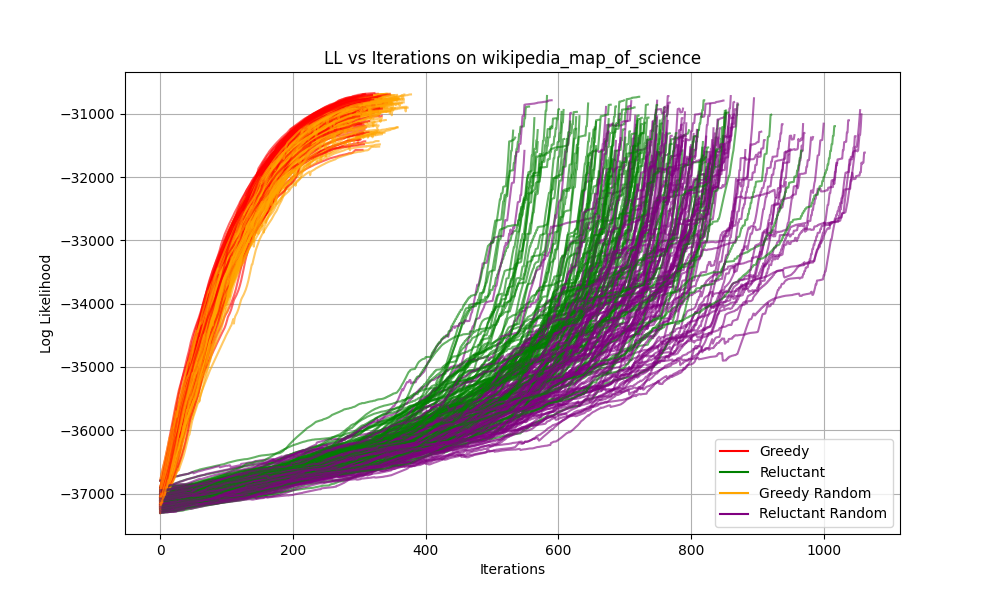
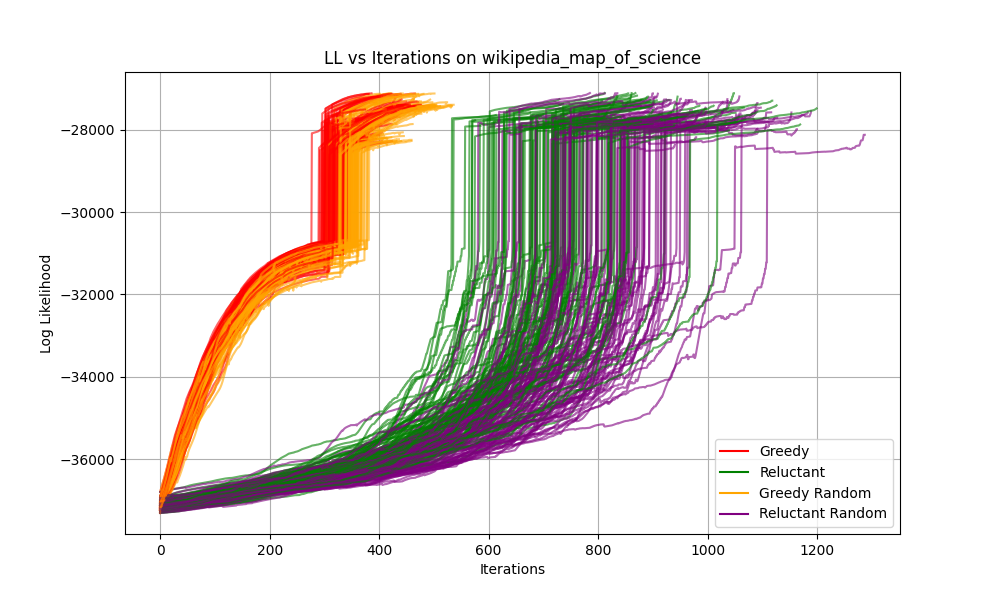
dynamic w

diff --git a/src/sbm_analysis_single_graph.py b/src/sbm_analysis_single_graph.py
@@ -17,22 +17,22 @@ def sbm_plot_cost_data(cost_data, graph_name, num_groups, num_nodes, group_mode,
         costs_fr = value["cost_data_r"]
         costs_fgr = value["cost_data_gr"]
         costs_frr = value["cost_data_rr"]
-        costs_fgsa = value["cost_data_gsa"]
-        costs_frsa = value["cost_data_rsa"]
+        # costs_fgsa = value["cost_data_gsa"]
+        # costs_frsa = value["cost_data_rsa"]
 
         iterations_fg = list(range(len(costs_fg)))
         iterations_fr = list(range(len(costs_fr)))
         iterations_fgr = list(range(len(costs_fgr)))
         iterations_frr = list(range(len(costs_frr)))
-        iterations_fgsa = list(range(len(costs_fgsa)))
-        iterations_frsa = list(range(len(costs_frsa)))
+        # iterations_fgsa = list(range(len(costs_fgsa)))
+        # iterations_frsa = list(range(len(costs_frsa)))
 
         plt.plot(iterations_fg, costs_fg, color="red", alpha=0.6)
         plt.plot(iterations_fr, costs_fr, color="green", alpha=0.6)
         plt.plot(iterations_fgr, costs_fgr, color="orange", alpha=0.6)
         plt.plot(iterations_frr, costs_frr, color="purple", alpha=0.6)
-        plt.plot(iterations_fgsa, costs_fgsa, color="brown", alpha=0.6)
-        plt.plot(iterations_frsa, costs_frsa, color="blue", alpha=0.6)
+        # plt.plot(iterations_fgsa, costs_fgsa, color="brown", alpha=0.6)
+        # plt.plot(iterations_frsa, costs_frsa, color="blue", alpha=0.6)
 
     if ground_truth_log_likelihood is not None:
         plt.axhline(y=ground_truth_log_likelihood, color='b', linestyle='--', label='Ground Truth')
@@ -44,8 +44,8 @@ def sbm_plot_cost_data(cost_data, graph_name, num_groups, num_nodes, group_mode,
     plt.plot([], [], color="green", label="Reluctant")
     plt.plot([], [], color="orange", label="Greedy Random")
     plt.plot([], [], color="purple", label="Reluctant Random")
-    plt.plot([], [], color="brown", label="Greedy SA")
-    plt.plot([], [], color="blue", label="Reluctant SA")
+    # plt.plot([], [], color="brown", label="Greedy SA")
+    # plt.plot([], [], color="blue", label="Reluctant SA")
     plt.legend(loc="lower right")
 
     plt.xlabel("Iterations")
@@ -65,16 +65,16 @@ def sbm_plot_final_costs(cost_data, graph_name, num_nodes, num_groups, group_mod
     reluctant_final_costs = []
     greedy_random_final_costs = []
     reluctant_random_final_costs = []
-    greedy_sa_final_costs = []
-    reluctant_sa_final_costs = []
+    # greedy_sa_final_costs = []
+    # reluctant_sa_final_costs = []
 
     for _, iteration_data in cost_data.items():
         greedy_final_costs.append(iteration_data["cost_data_g"][-1])
         reluctant_final_costs.append(iteration_data["cost_data_r"][-1])
         greedy_random_final_costs.append(iteration_data["cost_data_gr"][-1])
         reluctant_random_final_costs.append(iteration_data["cost_data_rr"][-1])
-        greedy_sa_final_costs.append(iteration_data["cost_data_gsa"][-1])
-        reluctant_sa_final_costs.append(iteration_data["cost_data_rsa"][-1])
+        # greedy_sa_final_costs.append(iteration_data["cost_data_gsa"][-1])
+        # reluctant_sa_final_costs.append(iteration_data["cost_data_rsa"][-1])
 
     plt.figure(figsize=(10, 6))
 
@@ -85,16 +85,16 @@ def sbm_plot_final_costs(cost_data, graph_name, num_nodes, num_groups, group_mod
     plt.scatter(indices, reluctant_final_costs, label='Reluctant', color='green', alpha=0.6)
     plt.scatter(indices, greedy_random_final_costs, label='Greedy Random', color='orange', alpha=0.6)
     plt.scatter(indices, reluctant_random_final_costs, label='Reluctant Random', color='purple', alpha=0.6)
-    plt.scatter(indices, greedy_sa_final_costs, label='Greedy SA', color='brown', alpha=0.6)
-    plt.scatter(indices, reluctant_sa_final_costs, label='Reluctant SA', color='blue', alpha=0.6)
+    # plt.scatter(indices, greedy_sa_final_costs, label='Greedy SA', color='brown', alpha=0.6)
+    # plt.scatter(indices, reluctant_sa_final_costs, label='Reluctant SA', color='blue', alpha=0.6)
 
     # Mean lines
     plt.axhline(np.mean(greedy_final_costs), color='red', linestyle='--', label=f'Mean Greedy: {np.mean(greedy_final_costs):.2f}')
     plt.axhline(np.mean(reluctant_final_costs), color='green', linestyle='--', label=f'Mean Reluctant: {np.mean(reluctant_final_costs):.2f}')
     plt.axhline(np.mean(greedy_random_final_costs), color='orange', linestyle='--', label=f'Mean Greedy Random: {np.mean(greedy_random_final_costs):.2f}')
     plt.axhline(np.mean(reluctant_random_final_costs), color='purple', linestyle='--', label=f'Mean Reluctant Random: {np.mean(reluctant_random_final_costs):.2f}')
-    plt.axhline(np.mean(greedy_sa_final_costs), color='brown', linestyle='--', label=f'Mean Greedy SA: {np.mean(greedy_sa_final_costs):.2f}')
-    plt.axhline(np.mean(reluctant_sa_final_costs), color='blue', linestyle='--', label=f'Mean Reluctant SA: {np.mean(reluctant_sa_final_costs):.2f}')
+    # plt.axhline(np.mean(greedy_sa_final_costs), color='brown', linestyle='--', label=f'Mean Greedy SA: {np.mean(greedy_sa_final_costs):.2f}')
+    # plt.axhline(np.mean(reluctant_sa_final_costs), color='blue', linestyle='--', label=f'Mean Reluctant SA: {np.mean(reluctant_sa_final_costs):.2f}')
 
     # Ground truth line
     if ground_truth_log_likelihood is not None:

diff --git a/src/utils.py b/src/utils.py
@@ -63,50 +63,40 @@ def load_graph_from_json(file_path):
     
     return graph, graph_name, num_nodes, num_groups, group_mode, initial_node_colors, ground_truth_log_likelihood
 
+# def compute_w(n, m):
+#     num_groups = len(n)
+#     w = np.zeros((num_groups, num_groups), dtype=float)
+
+#     for r in range(num_groups):
+#         for s in range(num_groups):
+#             if r == s:
+#                 possible_edges = n[r] * (n[r] - 1) / 2
+#                 actual_edges = m[r, r] / 2  # because we double-counted
+#             else:
+#                 possible_edges = n[r] * n[s]
+#                 actual_edges = m[r, s]  # total edge count between r and s
+
+#             if possible_edges > 0:
+#                 w[r, s] = actual_edges / possible_edges
+#             else:
+#                 w[r, s] = 0.0
+
+#     return np.clip(w, 1e-10, 1 - 1e-10)  # prevent log(0) or log(>1)
+
 def compute_w(n, m):
-
-    # n, m = np.zeros(total_groups), np.zeros((total_groups, total_groups))
-    # # g = np.array(color for color in graph.nodes)
-
-    # for node in graph.nodes():
-    #     n[graph.nodes[node]['color']] += 1 # increment group count for each group
-    # # print(n)
-    # for u, v in graph.edges():
-    #     # increment edge count between groups
-    #     # ensures m is symmetric
-    #     m[graph.nodes[v]['color'], graph.nodes[u]['color']] = m[graph.nodes[u]['color'], graph.nodes[v]['color']] = m[graph.nodes[u]['color'], graph.nodes[v]['color']] + 1 
-
-
-    # num_groups = len(n)
-    # w = np.zeros((num_groups, num_groups), dtype=float)
-
-    # for r in range(num_groups):
-    #     for s in range(num_groups):
-    #         if r == s:
-    #             possible_edges = n[r] * (n[r] - 1) / 2
-    #         else:
-    #             possible_edges = n[r] * n[s]
-
-    #         if possible_edges > 0:
-    #             w[r, s] = m[r, s] / possible_edges
-    #         else:
-    #             w[r, s] = 0.0  # Avoid division by zero
-
-    # return w
-
-    w = 0
-
-    # Suppress warnings and handle division safely
+    """
+    Compute the SBM w matrix based on node group sizes (n) and edge counts (m).
+    Assumes undirected graph with m symmetric, where m[r,s] counts all edges between groups r and s.
+    """
+    denominator = np.outer(n, n) - np.diag(0.5 * n * (n + 1))  # account for undirected self-edges
     with np.errstate(divide='ignore', invalid='ignore'):
         w = np.divide(
-            m,
-            (np.outer(n, n) - np.diag(0.5 * n * (n + 1))),
-            where=(np.outer(n, n) - np.diag(0.5 * n * (n + 1))) != 0
-        )
-    
-    
-    # subtracts within-group combinations for diagonal elements
+            m, 
+            denominator, 
+            where=denominator != 0)
 
+    # Prevent numerical instability in log(0) or log(>1)
+    w = np.clip(w, 1e-10, 1 - 1e-10)
     return w
 
 # def compute_w(graph, total_groups):

diff --git a/src/real_graph_processing.py b/src/real_graph_processing.py
@@ -38,9 +38,9 @@ if __name__ == '__main__':
 
     np.random.seed(seed=1)
     random_prob = 0.05
-    use_dynamic_w = False
+    use_dynamic_w = True
 
-    file_path = rf"C:\Projects\Heuristics for combinatorial optimisation\Heuristics-for-combinatorial-optimisation\data\graphs\within_organisation_facebook_friendships_L2, a.json"
+    file_path = rf"C:\Projects\Heuristics for combinatorial optimisation\Heuristics-for-combinatorial-optimisation\data\graphs\wikipedia_map_of_science, a.json"
     graph, graph_name, num_nodes, num_groups, group_mode, initial_node_colors, ground_truth_w, ground_truth_log_likelihood = load_graph_from_json(file_path)
 
     g = []
@@ -49,6 +49,7 @@ if __name__ == '__main__':
     g.extend([num_groups - 1] * (num_nodes % num_groups))
     g = np.array(g)
     g_copy = g.copy()
+    g_copy2 = g.copy()
     np.random.shuffle(g_copy)
 
     w = np.array(json.loads(ground_truth_w), dtype=float)
@@ -105,16 +106,13 @@ if __name__ == '__main__':
                 data_all.extend(data_step[1:] if data_all else data_step)
                 if not use_dynamic_w:
                     break
-                # compute new w
-                n = np.zeros(num_groups)
-                m = np.zeros((num_groups, num_groups))
-                for node in graph_copy.nodes():
-                    n[graph_copy.nodes[node]['color']] += 1
-                for u, v in graph_copy.edges():
-                    u = int(u)
-                    v = int(v)
-                    m[graph_copy.nodes[u]['color'], graph_copy.nodes[v]['color']] += 1
-                    m[graph_copy.nodes[v]['color'], graph_copy.nodes[u]['color']] += 1
+
+                n, m = np.zeros(num_groups), np.zeros((num_groups, num_groups))
+                for node in graph.nodes():
+                    n[g_copy2[node]] += 1
+                for u, v in graph.edges():
+                    m[g_copy2[v], g_copy2[u]] = m[g_copy2[u], g_copy2[v]] = m[g_copy2[u], g_copy2[v]] + 1
+
                 new_w = compute_w(n, m)
                 if np.allclose(new_w, current_w, atol=1e-6):
                     break

diff --git a/src/real_graph_analysis.py b/src/real_graph_analysis.py
@@ -8,7 +8,7 @@ from sbm_analysis_single_graph import sbm_plot_cost_data, sbm_plot_final_costs
 
 if __name__ == '__main__':
 
-    file_path = r"C:\Projects\Heuristics for combinatorial optimisation\results\spanish_high_school, 0.05, static_w_results.json"
+    file_path = r"C:\Projects\Heuristics for combinatorial optimisation\results\wikipedia_map_of_science, 0.05, dynamic_w_results.json"
     
     with open(file_path, 'r') as f:
         data = json.load(f)
